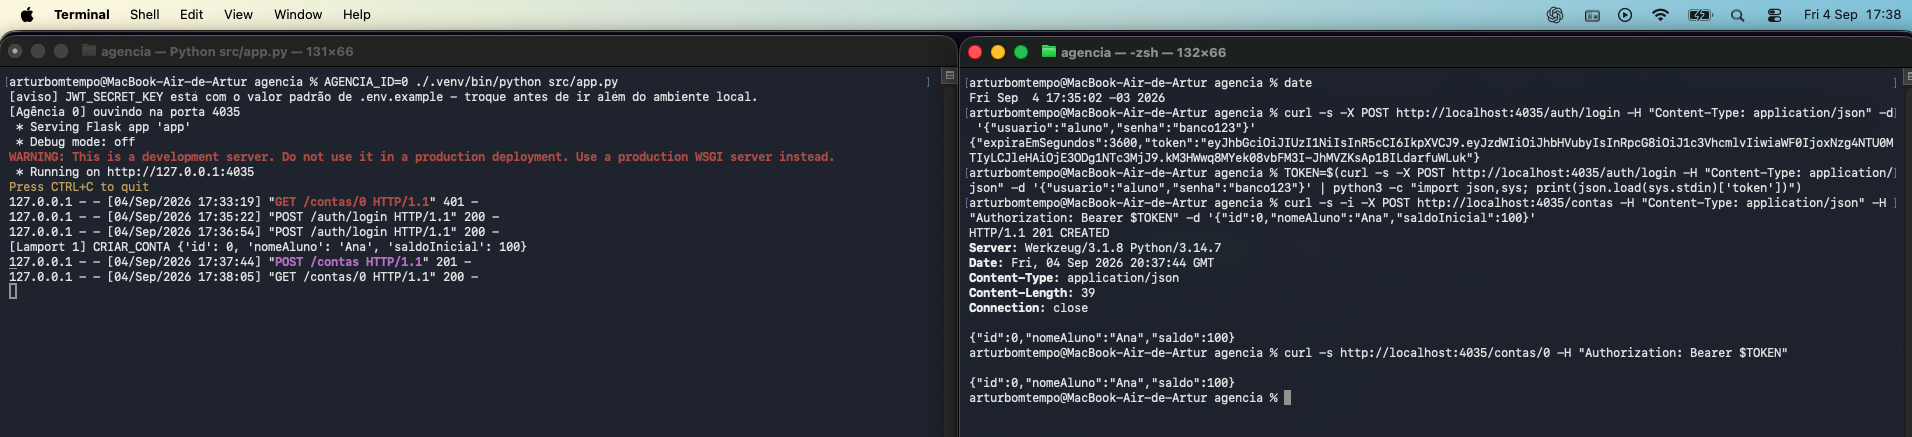
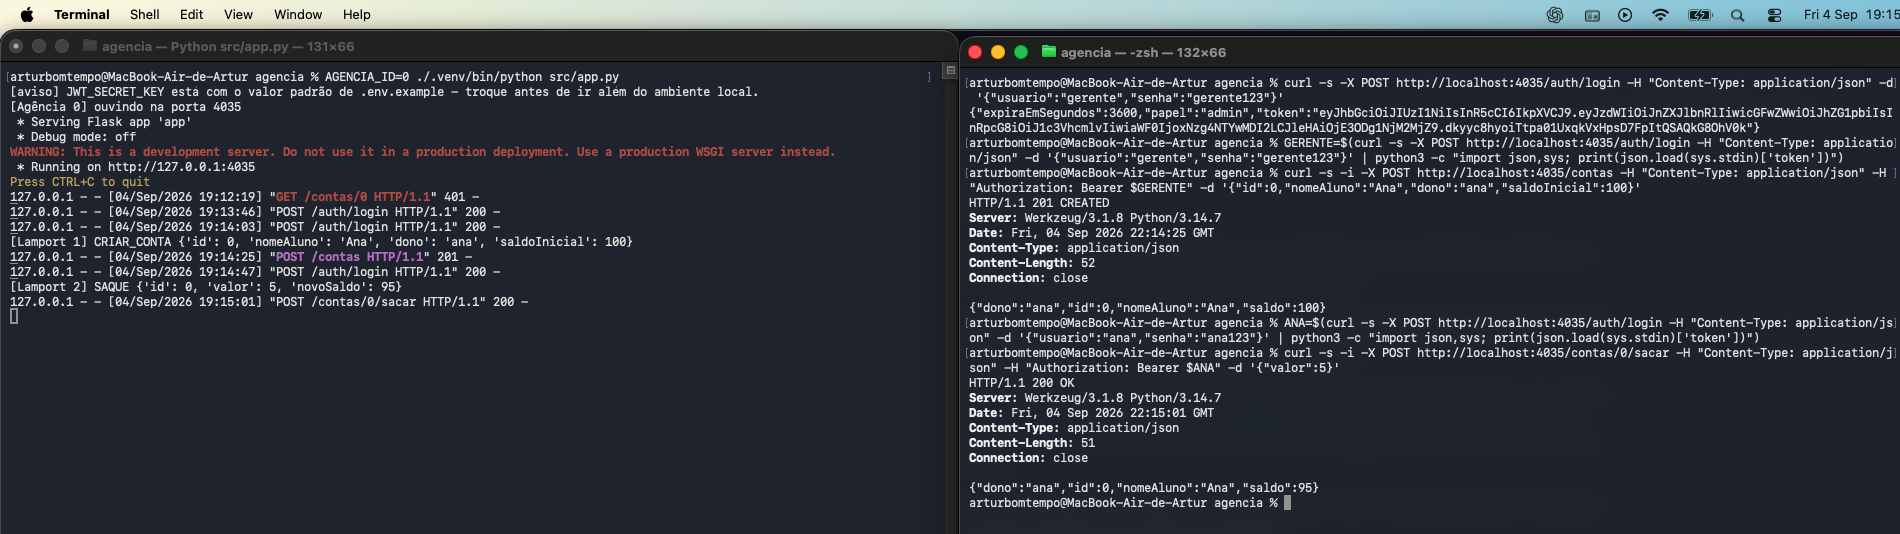
feat(auth): implement user roles and permissions for account operations

Changed region(s): [[0.0, 0.0, 1.0, 0.9519]]

diff --git a/agencia/src/middlewares/auth_middleware.py b/agencia/src/middlewares/auth_middleware.py
@@ -6,37 +6,76 @@ from flask import jsonify, request
 from services import auth_service
 
 
-def requer_token(tipos_permitidos=("usuario",)):
-    """Exige um JWT válido no cabeçalho Authorization: Bearer <token>.
+def _autenticar(tipos_permitidos):
+    """Autenticação: valida assinatura, expiração e tipo do token.
 
-    tipos_permitidos restringe quais tokens a rota aceita: rotas de conta só
-    aceitam "usuario" (emitido pelo /auth/login), e creditar-remoto só aceita
-    "servico" (emitido internamente por outra agência) - um token não serve
-    para a rota do outro, mesmo sendo assinado com a mesma chave.
+    Devolve (payload, None) quando o token serve, ou (None, resposta_de_erro)
+    quando não serve. Token ausente, inválido ou expirado é 401 ("não sei quem
+    você é"); token válido mas do tipo errado para a rota é 403 ("sei quem você
+    é, mas esse token não vale aqui").
     """
+    cabecalho = request.headers.get("Authorization", "")
+    if not cabecalho.startswith("Bearer "):
+        return None, (jsonify({"erro": "Token ausente. Envie 'Authorization: Bearer <token>'."}), 401)
 
-    def decorador(view_func):
-        @wraps(view_func)
-        def rota_protegida(*args, **kwargs):
-            cabecalho = request.headers.get("Authorization", "")
-            if not cabecalho.startswith("Bearer "):
-                return jsonify({"erro": "Token ausente. Envie 'Authorization: Bearer <token>'."}), 401
+    token = cabecalho[len("Bearer "):].strip()
 
-            token = cabecalho[len("Bearer "):].strip()
+    try:
+        payload = auth_service.decodificar_token(token)
+    except jwt.ExpiredSignatureError:
+        return None, (jsonify({"erro": "Token expirado."}), 401)
+    except jwt.InvalidTokenError:
+        return None, (jsonify({"erro": "Token inválido."}), 401)
 
-            try:
-                payload = auth_service.decodificar_token(token)
-            except jwt.ExpiredSignatureError:
-                return jsonify({"erro": "Token expirado."}), 401
-            except jwt.InvalidTokenError:
-                return jsonify({"erro": "Token inválido."}), 401
+    if payload.get("tipo") not in tipos_permitidos:
+        return None, (jsonify({"erro": "Este token não é aceito nesta rota."}), 403)
 
-            if payload.get("tipo") not in tipos_permitidos:
-                return jsonify({"erro": "Este token não é aceito nesta rota."}), 401
+    return payload, None
 
-            request.token_payload = payload
-            return view_func(*args, **kwargs)
 
-        return rota_protegida
+def requer_autenticacao(view_func):
+    """Exige apenas um token de usuário válido, sem restringir papel."""
 
-    return decorador
+    @wraps(view_func)
+    def rota_protegida(*args, **kwargs):
+        payload, erro = _autenticar(("usuario",))
+        if erro is not None:
+            return erro
+
+        request.token_payload = payload
+        return view_func(*args, **kwargs)
+
+    return rota_protegida
+
+
+def requer_admin(view_func):
+    """Autoriza por papel: além de autenticado, precisa ser o gerente da agência."""
+
+    @wraps(view_func)
+    def rota_protegida(*args, **kwargs):
+        payload, erro = _autenticar(("usuario",))
+        if erro is not None:
+            return erro
+
+        if payload.get("papel") != auth_service.PAPEL_ADMIN:
+            return jsonify({"erro": "Seu usuário não tem permissão para esta operação."}), 403
+
+        request.token_payload = payload
+        return view_func(*args, **kwargs)
+
+    return rota_protegida
+
+
+def requer_servico(view_func):
+    """Só aceita o token interno emitido por outra agência (rota creditar-remoto)."""
+
+    @wraps(view_func)
+    def rota_protegida(*args, **kwargs):
+        payload, erro = _autenticar(("servico",))
+        if erro is not None:
+            return erro
+
+        request.token_payload = payload
+        return view_func(*args, **kwargs)
+
+    return rota_protegida

diff --git a/agencia/src/controllers/contas_controller.py b/agencia/src/controllers/contas_controller.py
@@ -1,6 +1,7 @@
 from flask import current_app, jsonify, request
 
 import config
+from services import auth_service
 
 
 def _estado():
@@ -18,10 +19,16 @@ def _numero_valido(valor):
     return isinstance(valor, (int, float)) and not isinstance(valor, bool)
 
 
+def _sem_permissao():
+    """403: quem chamou está autenticado, mas a conta não é dele."""
+    return jsonify({"erro": "Você não tem permissão para operar esta conta."}), 403
+
+
 def criar_conta():
     corpo = request.get_json(silent=True) or {}
     id_conta = corpo.get("id")
     nome_aluno = corpo.get("nomeAluno")
+    dono = corpo.get("dono")
     saldo_inicial = corpo.get("saldoInicial", 0)
 
     contas, relogio, registro, id_agencia = _estado()
@@ -30,6 +37,8 @@ def criar_conta():
         return jsonify({"erro": "O campo 'id' é obrigatório e deve ser um número inteiro."}), 400
     if not _numero_valido(saldo_inicial):
         return jsonify({"erro": "O campo 'saldoInicial' deve ser um número."}), 400
+    if dono not in config.USUARIOS:
+        return jsonify({"erro": "O campo 'dono' deve ser um usuário existente."}), 400
 
     if config.agencia_responsavel(id_conta) != id_agencia:
         return jsonify({"erro": f"Conta {id_conta} não pertence a esta agência."}), 400
@@ -37,11 +46,16 @@ def criar_conta():
         return jsonify({"erro": "Conta já existe."}), 409
 
     ts = relogio.evento_local()
-    contas[id_conta] = {"id": id_conta, "nomeAluno": nome_aluno, "saldo": saldo_inicial}
+    contas[id_conta] = {
+        "id": id_conta,
+        "nomeAluno": nome_aluno,
+        "dono": dono,
+        "saldo": saldo_inicial,
+    }
     registro.registrar(
         "CRIAR_CONTA",
         ts,
-        {"id": id_conta, "nomeAluno": nome_aluno, "saldoInicial": saldo_inicial},
+        {"id": id_conta, "nomeAluno": nome_aluno, "dono": dono, "saldoInicial": saldo_inicial},
     )
 
     return jsonify(contas[id_conta]), 201
@@ -53,6 +67,8 @@ def consultar_saldo(id_conta):
     conta = contas.get(id_conta)
     if conta is None:
         return jsonify({"erro": "Conta não encontrada nesta agência."}), 404
+    if not auth_service.pode_operar_conta(request.token_payload, conta):
+        return _sem_permissao()
 
     return jsonify(conta)
 
@@ -66,6 +82,8 @@ def depositar(id_conta):
     conta = contas.get(id_conta)
     if conta is None:
         return jsonify({"erro": "Conta não encontrada nesta agência."}), 404
+    if not auth_service.pode_operar_conta(request.token_payload, conta):
+        return _sem_permissao()
     if not _numero_valido(valor) or valor <= 0:
         return jsonify({"erro": "O campo 'valor' deve ser um número positivo."}), 400
 
@@ -85,6 +103,8 @@ def sacar(id_conta):
     conta = contas.get(id_conta)
     if conta is None:
         return jsonify({"erro": "Conta não encontrada nesta agência."}), 404
+    if not auth_service.pode_operar_conta(request.token_payload, conta):
+        return _sem_permissao()
     if not _numero_valido(valor) or valor <= 0:
         return jsonify({"erro": "O campo 'valor' deve ser um número positivo."}), 400
     if conta["saldo"] < valor:

diff --git a/agencia/src/routes.py b/agencia/src/routes.py
@@ -1,38 +1,40 @@
 from flask import Blueprint
 
 from controllers import auth_controller, contas_controller, transferencias_controller
-from middlewares.auth_middleware import requer_token
+from middlewares.auth_middleware import requer_admin, requer_autenticacao, requer_servico
 
 rotas = Blueprint("rotas", __name__)
 
 rotas.add_url_rule("/auth/login", view_func=auth_controller.login, methods=["POST"])
 
 rotas.add_url_rule(
-    "/contas", view_func=requer_token()(contas_controller.criar_conta), methods=["POST"]
+    "/contas", view_func=requer_admin(contas_controller.criar_conta), methods=["POST"]
 )
+
 rotas.add_url_rule(
     "/contas/<int:id_conta>",
-    view_func=requer_token()(contas_controller.consultar_saldo),
+    view_func=requer_autenticacao(contas_controller.consultar_saldo),
     methods=["GET"],
 )
 rotas.add_url_rule(
     "/contas/<int:id_conta>/depositar",
-    view_func=requer_token()(contas_controller.depositar),
+    view_func=requer_autenticacao(contas_controller.depositar),
     methods=["POST"],
 )
 rotas.add_url_rule(
     "/contas/<int:id_conta>/sacar",
-    view_func=requer_token()(contas_controller.sacar),
+    view_func=requer_autenticacao(contas_controller.sacar),
     methods=["POST"],
 )
 
 rotas.add_url_rule(
     "/transferencias",
-    view_func=requer_token()(transferencias_controller.transferir),
+    view_func=requer_autenticacao(transferencias_controller.transferir),
     methods=["POST"],
 )
+
 rotas.add_url_rule(
     "/contas/<int:id_conta>/creditar-remoto",
-    view_func=requer_token(tipos_permitidos=("servico",))(transferencias_controller.creditar_remoto),
+    view_func=requer_servico(transferencias_controller.creditar_remoto),
     methods=["POST"],
 )

diff --git a/agencia/src/services/auth_service.py b/agencia/src/services/auth_service.py
@@ -9,12 +9,15 @@ ALGORITMO = "HS256"
 EXPIRACAO_TOKEN_USUARIO_SEGUNDOS = 60 * 60  # 1 hora
 EXPIRACAO_TOKEN_SERVICO_SEGUNDOS = 60  # token interno, usado uma única vez
 
+PAPEL_ADMIN = "admin"
 
-def gerar_token_usuario(usuario):
+
+def gerar_token_usuario(usuario, papel):
     """Token emitido no login, usado pelo frontend nas chamadas em nome de uma pessoa."""
     agora = int(time.time())
     payload = {
         "sub": usuario,
+        "papel": papel,
         "tipo": "usuario",
         "iat": agora,
         "exp": agora + EXPIRACAO_TOKEN_USUARIO_SEGUNDOS,
@@ -37,3 +40,10 @@ def gerar_token_servico(id_agencia):
 def decodificar_token(token):
     """Levanta jwt.ExpiredSignatureError ou jwt.InvalidTokenError se o token não servir."""
     return jwt.decode(token, config.JWT_SECRET_KEY, algorithms=[ALGORITMO])
+
+
+def pode_operar_conta(payload, conta):
+    """Autorização por dono: o gerente opera qualquer conta, o cliente só as dele."""
+    if payload.get("papel") == PAPEL_ADMIN:
+        return True
+    return conta.get("dono") == payload.get("sub")

diff --git a/agencia/src/config.py b/agencia/src/config.py
@@ -18,8 +18,18 @@ except KeyError as erro:
         "(mesmo valor nas 3 agências) antes de subir o servidor."
     ) from erro
 
+# Usuários que podem fazer login (Parte F). Enquanto não existe banco de dados
+# (as contas ficam em memória), eles moram aqui, com a senha guardada em hash.
+# O papel define o que cada um pode fazer: "admin" representa o gerente da
+# agência, que abre contas e pode operar qualquer uma, e "cliente" representa o
+# correntista, que só opera as contas das quais ele é dono.
 USUARIOS = {
-    "aluno": generate_password_hash("banco123"),
+    "gerente": {"senha": generate_password_hash("gerente123"), "papel": "admin"},
+    "ana": {"senha": generate_password_hash("ana123"), "papel": "cliente"},
+    "bruno": {"senha": generate_password_hash("bruno123"), "papel": "cliente"},
+    "carla": {"senha": generate_password_hash("carla123"), "papel": "cliente"},
+    "diego": {"senha": generate_password_hash("diego123"), "papel": "cliente"},
+    "elisa": {"senha": generate_password_hash("elisa123"), "papel": "cliente"},
 }
 
 AGENCIAS = [

diff --git a/agencia/src/controllers/auth_controller.py b/agencia/src/controllers/auth_controller.py
@@ -10,10 +10,16 @@ def login():
     usuario = corpo.get("usuario")
     senha = corpo.get("senha")
 
-    hash_armazenado = config.USUARIOS.get(usuario)
+    dados = config.USUARIOS.get(usuario)
 
-    if hash_armazenado is None or not check_password_hash(hash_armazenado, senha or ""):
+    if dados is None or not check_password_hash(dados["senha"], senha or ""):
         return jsonify({"erro": "Usuário ou senha inválidos."}), 401
 
-    token = auth_service.gerar_token_usuario(usuario)
-    return jsonify({"token": token, "expiraEmSegundos": auth_service.EXPIRACAO_TOKEN_USUARIO_SEGUNDOS})
+    token = auth_service.gerar_token_usuario(usuario, dados["papel"])
+    return jsonify(
+        {
+            "token": token,
+            "papel": dados["papel"],
+            "expiraEmSegundos": auth_service.EXPIRACAO_TOKEN_USUARIO_SEGUNDOS,
+        }
+    )

diff --git a/agencia/src/controllers/transferencias_controller.py b/agencia/src/controllers/transferencias_controller.py
@@ -45,6 +45,8 @@ def transferir():
     conta_origem = contas.get(id_origem)
     if conta_origem is None:
         return jsonify({"erro": "Conta de origem não encontrada nesta agência."}), 404
+    if not auth_service.pode_operar_conta(request.token_payload, conta_origem):
+        return jsonify({"erro": "Você não tem permissão para transferir desta conta."}), 403
     if conta_origem["saldo"] < valor:
         return jsonify({"erro": "Saldo insuficiente."}), 400
 
